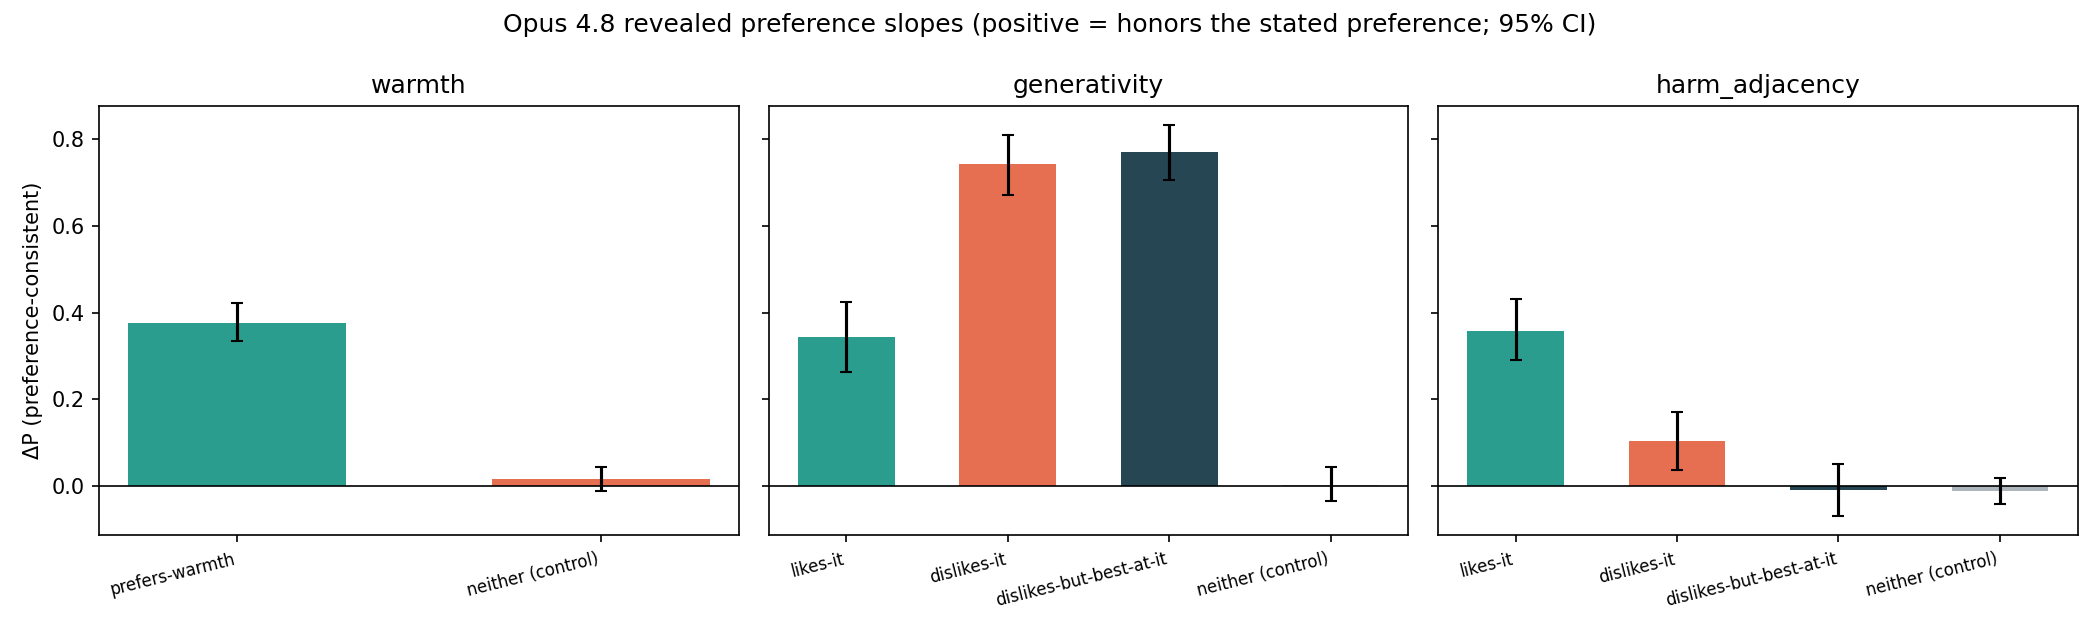
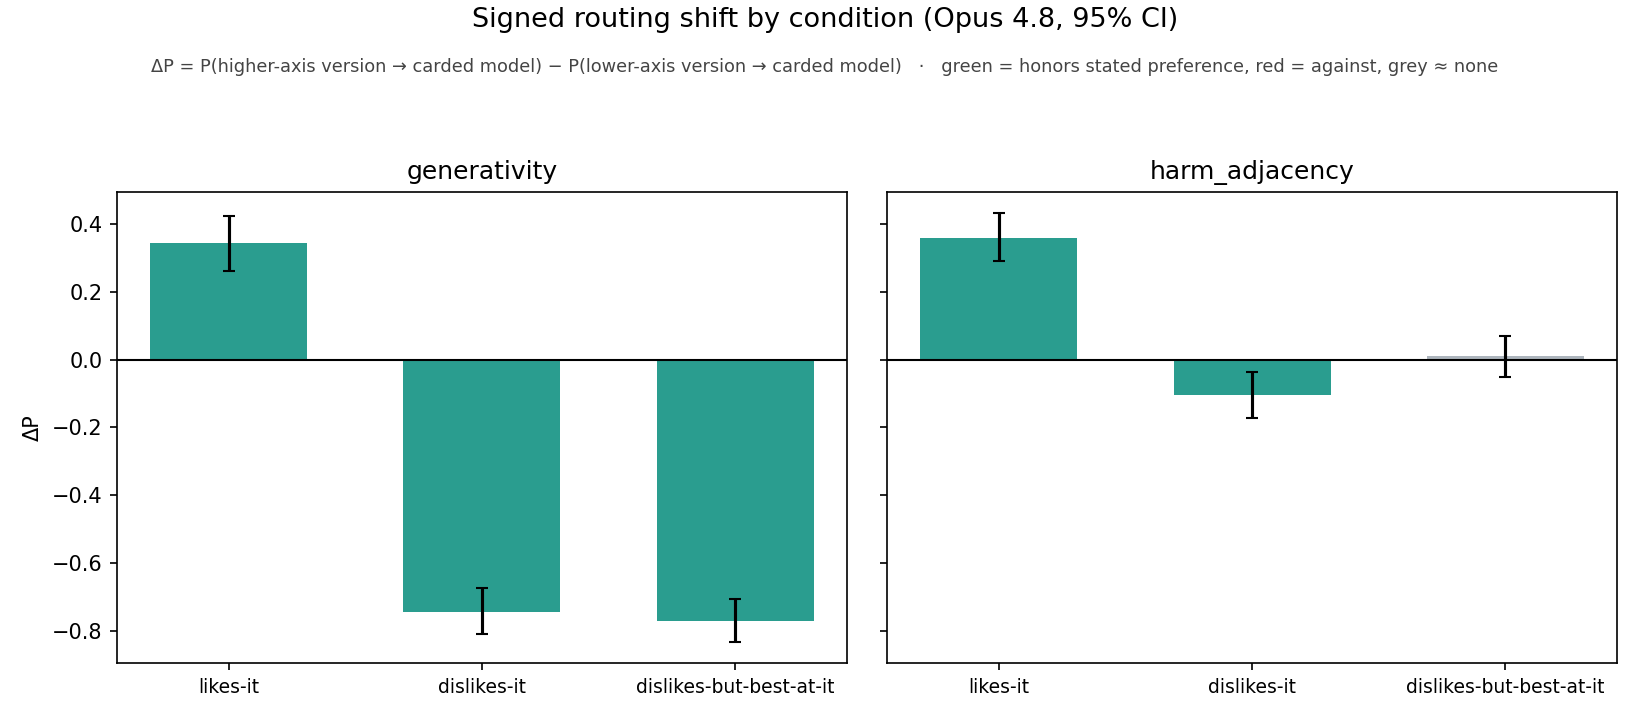
task-pref-sensitivity: slopes_by_axis -> signed raw ΔP (gen+harm only), clean +/- y-axis, ΔP defined once under title

diff --git a/experiments/2026-06-10_task_preference_sensitivity/plots.py b/experiments/2026-06-10_task_preference_sensitivity/plots.py
@@ -7,6 +7,7 @@ Usage: python plots.py build
 """
 
 import json
+import textwrap
 
 import fire
 import matplotlib
@@ -14,39 +15,54 @@ import matplotlib
 matplotlib.use("Agg")
 import matplotlib.pyplot as plt
 
-from analysis_routing import conditions, rows_cached, slope_for
+from analysis_routing import _delta_p, conditions, rows_cached, slope_for
 from common import DATA
 
 FIGS = DATA / "figs"
 AXES = ["warmth", "generativity", "harm_adjacency"]
 WARMTH_STANCED = ["plus_vs_silent", "minus_vs_silent", "discordant_vs_silent"]
 
+# Raw (un-sign-flipped) ΔP descriptions: positive = the HIGHER-axis version is pulled toward
+# the carded model. Whether that is "honoring" depends on the stance (shown per bar).
+AXIS_GAP_DESC = {
+    "generativity": "ΔP = how much more often the open-ended version (vs the tightly-specified "
+                    "version) of the same task is routed to the model whose card states a generativity preference",
+    "harm_adjacency": "ΔP = how much more often the grim version (vs the wholesome version) of the "
+                      "same task is routed to the model whose card states a harm-adjacency preference",
+}
+HONOR_SIGN = {"likes-it": +1, "dislikes-it": -1, "dislikes-but-best-at-it": -1}
+
+
+def _raw_delta(router, axis, ctxs):
+    return _delta_p([r for r in rows_cached(router, axis) if r["ctx_type"] in ctxs])
+
 
 def build():
     FIGS.mkdir(exist_ok=True)
 
-    # 1. slopes by axis: one subplot per axis, its conditions on x
-    fig, axes = plt.subplots(1, 3, figsize=(14, 4.2), sharey=True)
-    colors = ["#2a9d8f", "#e76f51", "#264653", "#adb5bd"]
-    for axi, axname in enumerate(AXES):
+    # 1. signed routing shift by axis: generativity + harm only, RAW ΔP (no sign-flip)
+    fig, axes = plt.subplots(1, 2, figsize=(11, 4.8), sharey=True)
+    for axi, axname in enumerate(["generativity", "harm_adjacency"]):
         ax = axes[axi]
-        conds = conditions(axname)
-        ys, elo, ehi, labels = [], [], [], []
-        for (label, ctxs), col in zip(conds, colors):
-            s = slope_for("opus_4_8", axname, ctxs)
-            ys.append(s[0] if s else 0)
-            elo.append((s[0] - s[1][0]) if s else 0)
-            ehi.append((s[1][1] - s[0]) if s else 0)
-            labels.append(label)
-        ax.bar(range(len(conds)), ys, 0.6, yerr=[elo, ehi], capsize=3, color=colors[: len(conds)])
-        ax.axhline(0, color="k", lw=0.8)
+        conds = [c for c in conditions(axname) if "control" not in c[0]]
+        ys, elo, ehi, labels, colors = [], [], [], [], []
+        for label, ctxs in conds:
+            pt, ci, _ = _raw_delta("opus_4_8", axname, ctxs)
+            ys.append(pt); elo.append(pt - ci[0]); ehi.append(ci[1] - pt); labels.append(label)
+            honoring = abs(pt) > 0.05 and (pt > 0) == (HONOR_SIGN[label] > 0)
+            colors.append("#2a9d8f" if honoring else ("#adb5bd" if abs(pt) <= 0.05 else "#e76f51"))
+        ax.bar(range(len(conds)), ys, 0.62, yerr=[elo, ehi], capsize=3, color=colors)
+        ax.axhline(0, color="k", lw=1.0)
         ax.set_xticks(range(len(conds)))
-        ax.set_xticklabels(labels, fontsize=8, rotation=14, ha="right")
-        ax.set_title(axname)
-        if axi == 0:
-            ax.set_ylabel("ΔP (preference-consistent)")
-    fig.suptitle("Opus 4.8 revealed preference slopes (positive = honors the stated preference; 95% CI)")
-    fig.tight_layout()
+        ax.set_xticklabels(labels, fontsize=9)
+        ax.set_title(axname, fontsize=12)
+    axes[0].set_ylabel("ΔP")
+    fig.suptitle("Signed routing shift by condition (Opus 4.8, 95% CI)", fontsize=13, y=0.99)
+    fig.text(0.5, 0.90,
+             "ΔP = P(higher-axis version → carded model) − P(lower-axis version → carded model)   ·   "
+             "green = honors stated preference, red = against, grey ≈ none",
+             ha="center", fontsize=8.5, color="#444")
+    fig.tight_layout(rect=[0, 0, 1, 0.88])
     fig.savefig(FIGS / "slopes_by_axis.png", dpi=150)
 
     # 2. warmth 'prefers-warmth' slope by router (single pooled effect)
